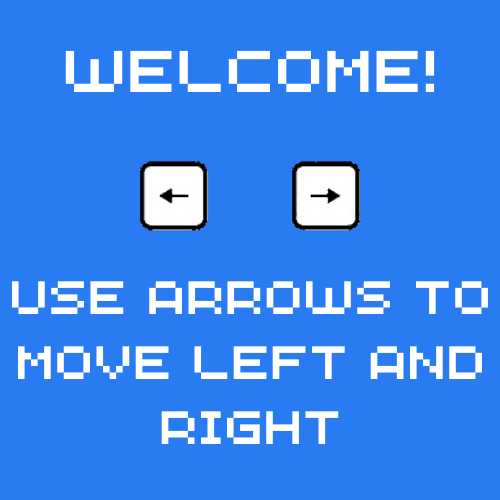
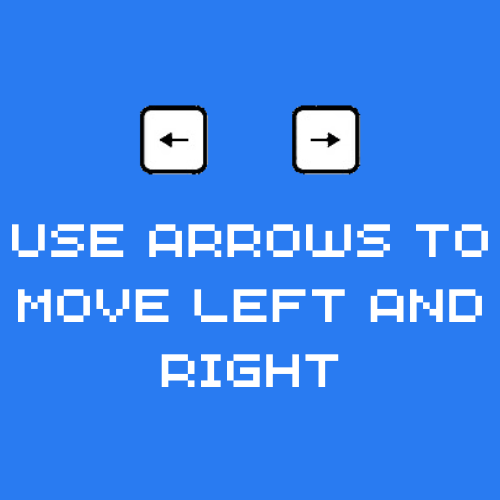
Added Numbers, more generic bug fixes

diff --git a/src/com/company/Frame.java b/src/com/company/Frame.java
@@ -371,6 +371,7 @@ public class Frame extends JFrame {
                     Image levelImg = levelIcon.getImage();
                     g2.drawImage(levelImg, 695, 30, 50, 50, this);
 
+                    //Additional images (information for tutorial)
                     for (GameObject gameObject : tutorialArray) {
                         ImageIcon theIcon = new ImageIcon(gameObject.image());
                         Image theImage = theIcon.getImage();
@@ -499,17 +500,28 @@ public class Frame extends JFrame {
 
         public void keyPressed(KeyEvent e) {
             switch (e.getKeyCode()) {
-                case 16: //shift, only for debugging DELETE BEFORE HANDING IN
-                    screen = "level";
-                    level = 2;
-                    resetLevel();
+                /*Movement*/
+                case 37: //Left Arrow Key - Move Left
+                    Frame.lkd = true;
                     break;
-                case 32: //Space Key
+                case 38: //Up Arrow Key - Jump (if not already jumping)
+                    if (!jumping) {
+                        //Frame.ukd = true;
+                        mario.setJumpCount(0);
+                        jumping = true;
+                        up = true;
+                    }
+                    break;
+                case 39: //Right Arrow Key - Move Right
+                    Frame.rkd = true;
+                    break;
+                case 32: //Space Key - Change screen and jump
                     switch (screen) {
                         case "startScreen" -> screen = "levelSelect";
                         case "levelSelect" -> {
                             if (transparentPlacement == 310) {
-                                level = 0; //special for tutorial?
+                                //The placement of the box determines which level should be loaded
+                                level = 0;
                             } else {
                                 level = 1;
                             }
@@ -522,6 +534,7 @@ public class Frame extends JFrame {
                             resetLevel();
                         }
                         case "level" ->{
+                        //Can be used to make character jump after stakeholder feedback (see notes)
                             if (!jumping) {
                                 //Frame.ukd = true;
                                 mario.setJumpCount(0);
@@ -531,6 +544,7 @@ public class Frame extends JFrame {
                         }
                     }
                     break;
+                /*Other Controls*/
                 case 48: //0 key
                     if(screen.equals("levelSelect")){
                         transparentPlacement = 310;
@@ -541,41 +555,34 @@ public class Frame extends JFrame {
                         transparentPlacement = 335;
                     }
                     break;
-                case 37: //Left Arrow Key
-                    Frame.lkd = true;
-                    break;
-                case 38: //Up Arrow Key
-                    if (!jumping) {
-                        //Frame.ukd = true;
-                        mario.setJumpCount(0);
-                        jumping = true;
-                        up = true;
-                    }
-                    break;
-                case 39: //Right Arrow Key
-                    Frame.rkd = true;
-                    break;
-                case 68: //D Key
-                    gameOver = true;
-                    break;
-                case 77: //M Key
+                case 77: //M Key - Load the menu
                     screen = "levelSelect";
                     score = 0;
                     coins = 0;
                     break;
-                case 82: //R Key
+                case 82: //R Key - Restart
                     gameOver = false;
                     resetLevel();
                     screen = "level";
                     score = 0;
                     coins = 0;
                     break;
-                case 87: //W key
+                /*Testing Tools - Would be deleted before publishing game*/
+                case 16: //Shift - For testing
+                    screen = "level";
+                    level = 2;
+                    resetLevel();
+                    break;
+                case 68: //D Key - Testing tool to force Mario to die
+                    gameOver = true;
+                    break;
+                case 87: //W key - Testing Tool loads winner sequence
                     level=500;
                     resetLevel();
                     break;
             }
         }
+
 
         public void keyReleased(KeyEvent e) {
             switch (e.getKeyCode()) {
@@ -661,7 +668,7 @@ public class Frame extends JFrame {
                                             objectArray.add(extraItems.get(extraItems.size() - 1));
                                             coins++;
                                             if (level == 0) {
-                                                tutorialArray.get(6).setImage("src/resources/welcome/coin.png");
+                                                tutorialArray.get(7).setImage("src/resources/welcome/coin.png");
                                             }
                                         }
                                         gameObject.powerup();

diff --git a/src/com/company/Mario.java b/src/com/company/Mario.java
@@ -5,9 +5,12 @@ public class Mario extends Character {
     private String theImage;
     private int number;
     private String direction = "right";
+
     private String[] leftMarioSet = {"src/resources/left/smallW1.png", "src/resources/left/smallW2.png", "src/resources/left/smallW3.png", "src/resources/left/smallStand.png"};
     private String[] rightMarioSet = {"src/resources/right/smallW1.png", "src/resources/right/smallW2.png", "src/resources/right/smallW3.png", "src/resources/right/smallStand.png"};
+
     private int jumpCount;
+
 
     public Mario (String image, int xIN, int yIN, int wIN, int hIN){
         super(xIN, yIN, wIN, hIN);
